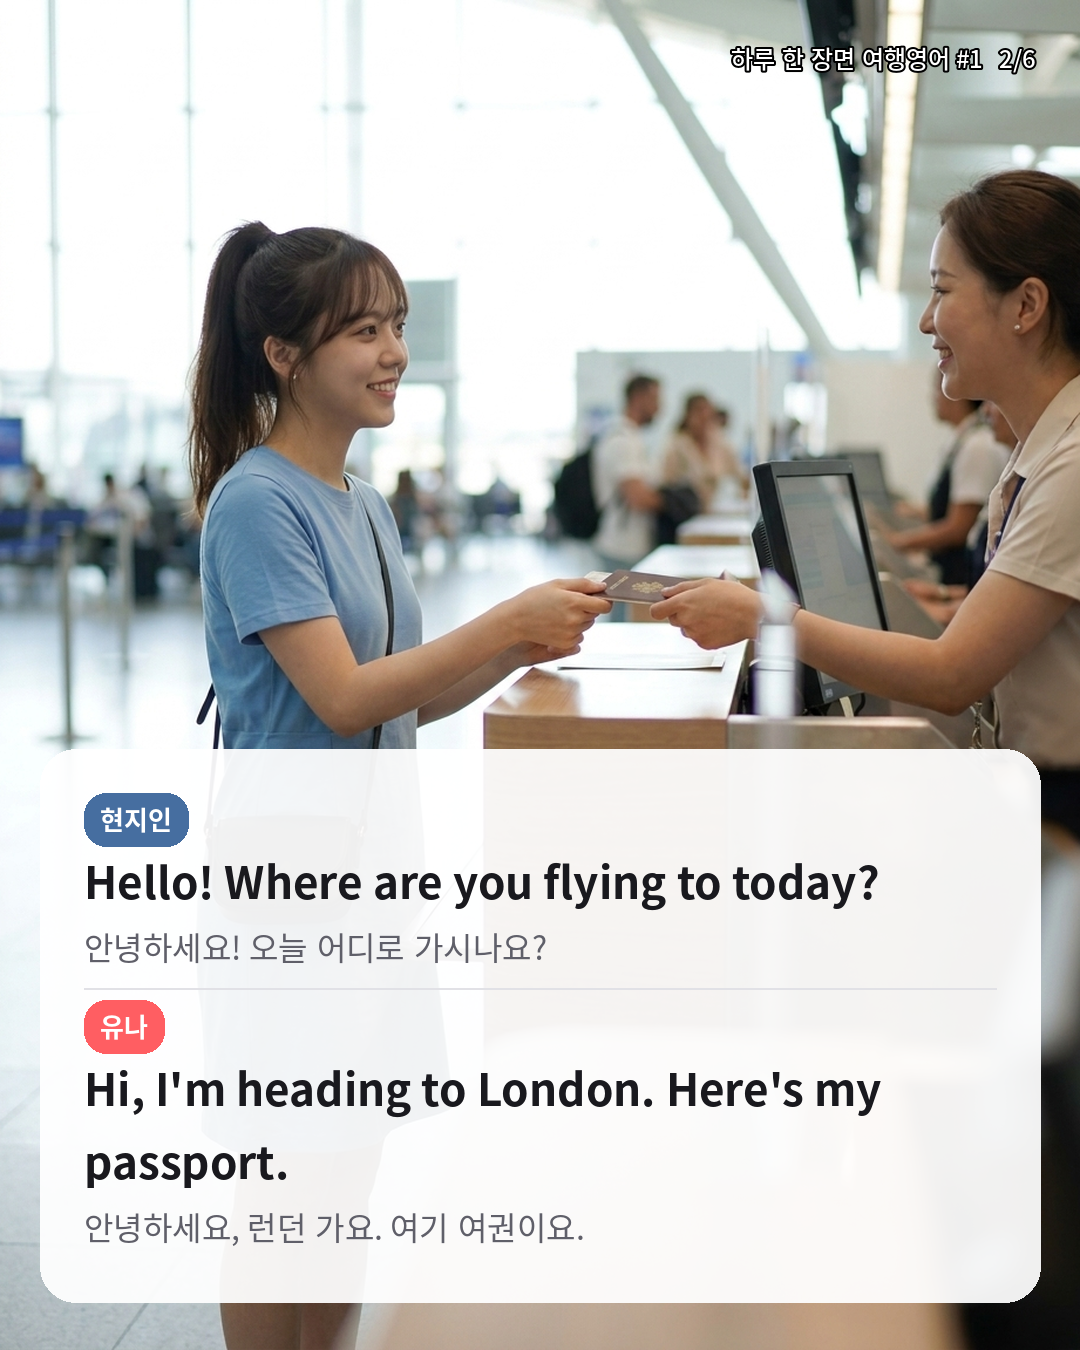
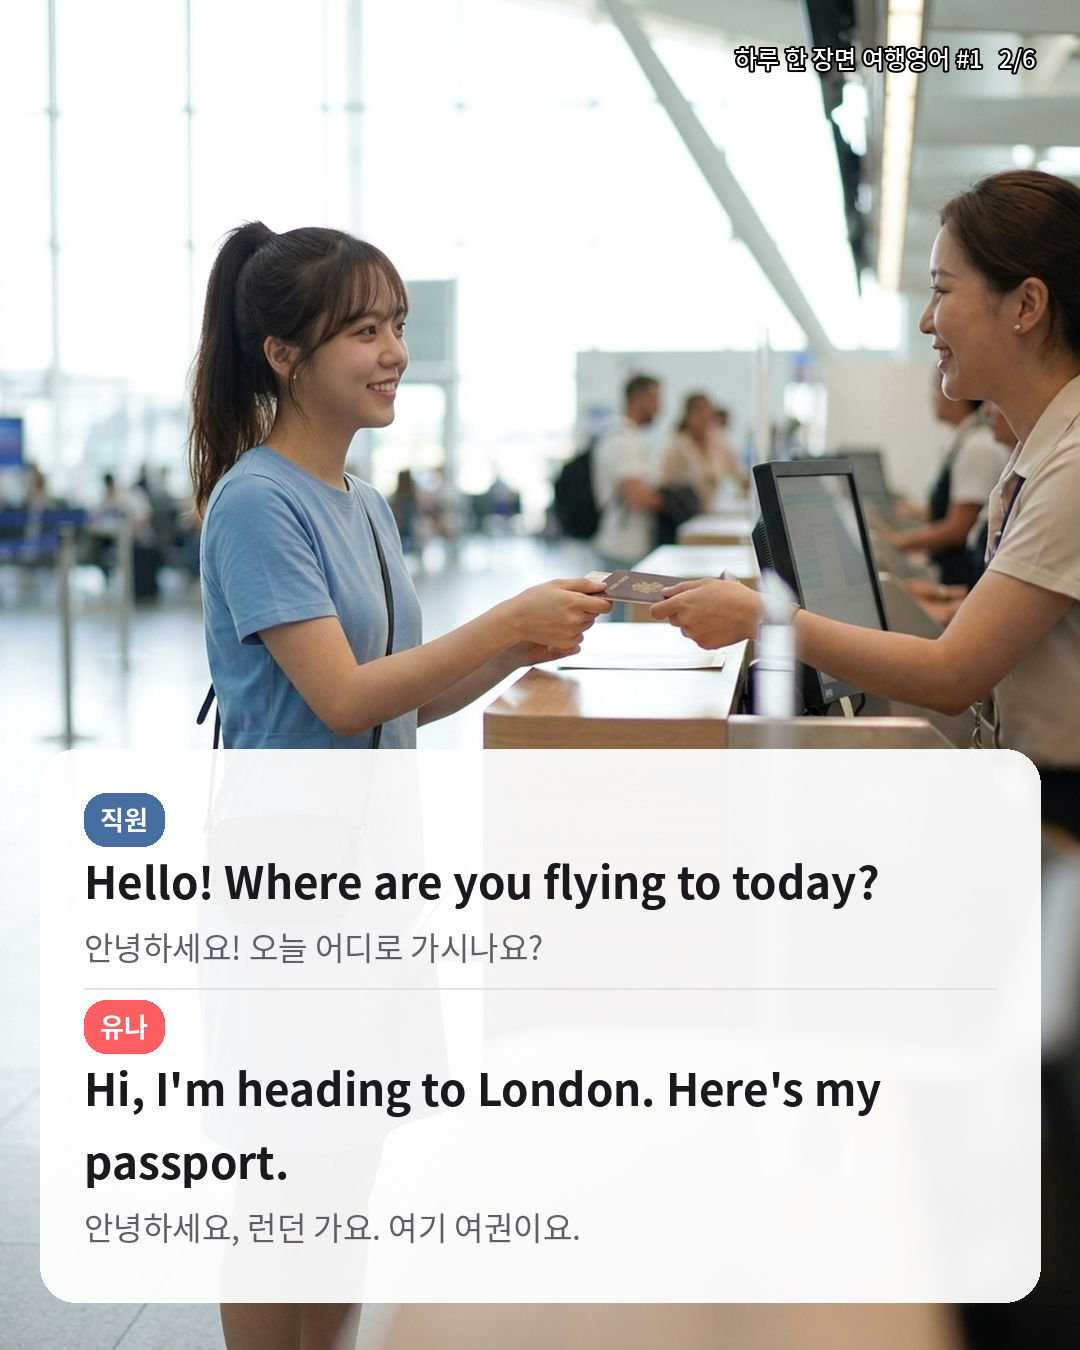
Per-post label for the other speaker (직원/현지인 등)
Claude-Session: https://claude.ai/code/session_01YZQxc5Cc6w3SKfMaNNprM1

diff --git a/scripts/write_episode.py b/scripts/write_episode.py
@@ -111,6 +111,7 @@ Images: every exchange gets one photo. Write "scene" in English as a photo descr
 Return JSON only:
 {{
   "title": "Korean post title, max 14 chars (e.g. 공항 체크인 영어)",
+  "other_label": "Korean label for the other person, 2–3 chars: 직원 / 현지인 / 기사님 / 의사 / 약사 etc.",
   "headline": "Korean cover headline, max 10 chars (e.g. 공항 체크인)",
   "sub": "Korean cover subline, max 16 chars, catchy (e.g. 이 네 마디면 끝!)",
   "cover_scene": "English photo description for the cover: {HERO['name']} at this place, looking at the camera with a friendly smile",

diff --git a/scripts/render_episode.py b/scripts/render_episode.py
@@ -180,7 +180,7 @@ def compose_dialogue(raw, s, panel, out, total):
     y = top + pad
     for i, dl in enumerate(panel["dialogues"]):
         hero = dl["speaker"] == HERO_ID
-        badge(d, mx + pad, y, HERO["name"] if hero else "현지인", ACCENT if hero else STAFF, f_lb)
+        badge(d, mx + pad, y, HERO["name"] if hero else s.get("other_label", "직원"), ACCENT if hero else STAFF, f_lb)
         y += 54
         y = text_block(d, mx + pad, y, dl["en"], f_en, INK, max_w)
         y = text_block(d, mx + pad, y + 2, dl["ko"], f_ko, SUB, max_w) + 22

diff --git a/episodes/ep001/report.md b/episodes/ep001/report.md
@@ -1,15 +1,9 @@
 # #1 「공항 체크인 짐 부치기 영어」 렌더링 결과
 
-- 실행 시각: 2026-10-19 23:16 KST
-- 1장: ✅ 사진 생성 (gemini-3-pro-image)
+- 실행 시각: 2026-10-19 23:19 KST
 - 1장: ✅ 합성
-- 2장: ✅ 사진 생성 (gemini-3-pro-image)
 - 2장: ✅ 합성
-- 3장: ✅ 사진 생성 (gemini-3-pro-image)
 - 3장: ✅ 합성
-- 4장: ✅ 사진 생성 (gemini-3-pro-image)
 - 4장: ✅ 합성
-- 5장: ✅ 사진 생성 (gemini-3-pro-image)
 - 5장: ✅ 합성
-- 6장: ✅ 사진 생성 (gemini-3-pro-image)
 - 6장: ✅ 합성
